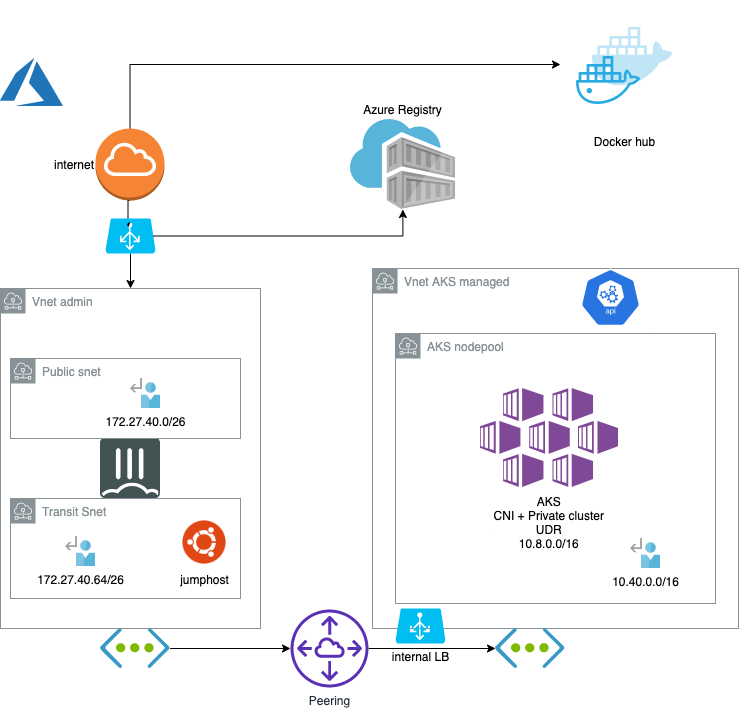
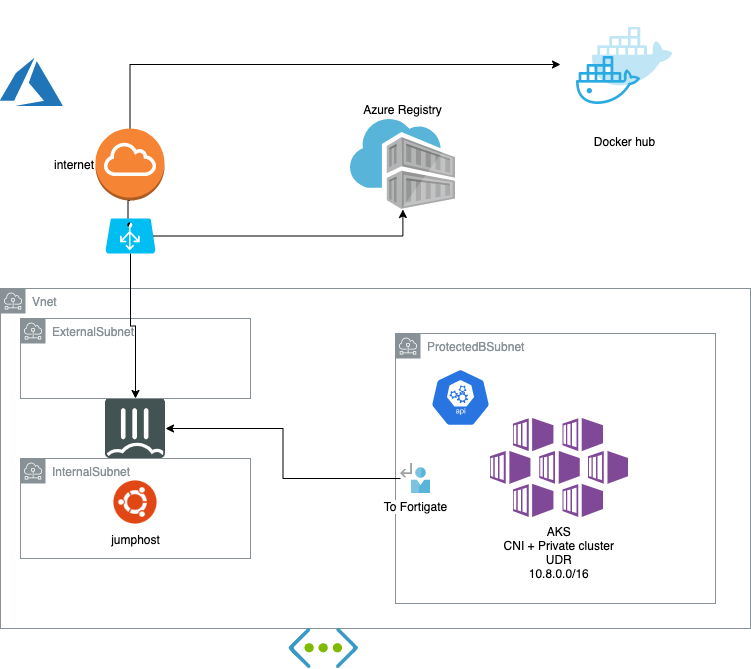
architecture changed formating and add on git clone on every solution remove sudo in front of cli on jumphost

diff --git a/docs/index.md b/docs/index.md
@@ -8,9 +8,9 @@ This repository provides hands on example to deploy a private and secured by For
 
 * Install Fortigate, private AKS clients and access:
 
-  **  [Docker image on your client and Forticlient IPsec to the Azure fortigate](LocalDockerandVPN.md) .
+  *  [Docker image on your client and Forticlient IPsec to the Azure fortigate](LocalDockerandVPN.md) .
 
-  ** [using git, az and jq on your own shell then ssh to a provided jumphost VM inside the cluster.](JumphostUsage.md)
+  * [using git, az and jq on your own shell then ssh to a provided jumphost VM inside the cluster.](JumphostUsage.md)
 
 
 * [Hands on demos](Hands_on_demos.md) - Protection step by step

diff --git a/docs/LocalDockerandVPN.md b/docs/LocalDockerandVPN.md
@@ -1,10 +1,18 @@
 
 # CLI with the provided docker image
+
+This section assume you already run:
+```shell
+git clone https://github.com/fortinet-solutions-cse/secured-AKS-refarch
+cd secured-AKS-refarch
+```
+
+## Run with the provided Docker image with all cli installed
 ```shell
 docker run -v $PWD:/Azure/  -i --name az-aks-cli  -h az-aks-cli -t fortinetsolutioncse/az-aks-cli
 ```
 
-Type the rest of the commands in a shell inside the docker runtime.
+Type the rest of the commands in a shell inside this docker runtime.
 
 ## optionnal
 If like me you have internal SSL inspection you use the same image.

diff --git a/docs/JumphostUsage.md b/docs/JumphostUsage.md
@@ -2,7 +2,11 @@
 
 Depending on your environement you will need Azure cli (Ansible at least 2.9 is good to have but optionnal)
 
-
+This section assume you already run:
+```shell
+git clone https://github.com/fortinet-solutions-cse/secured-AKS-refarch
+cd secured-AKS-refarch
+```
 ## Script to set the architecture
 ```shell
 az login
